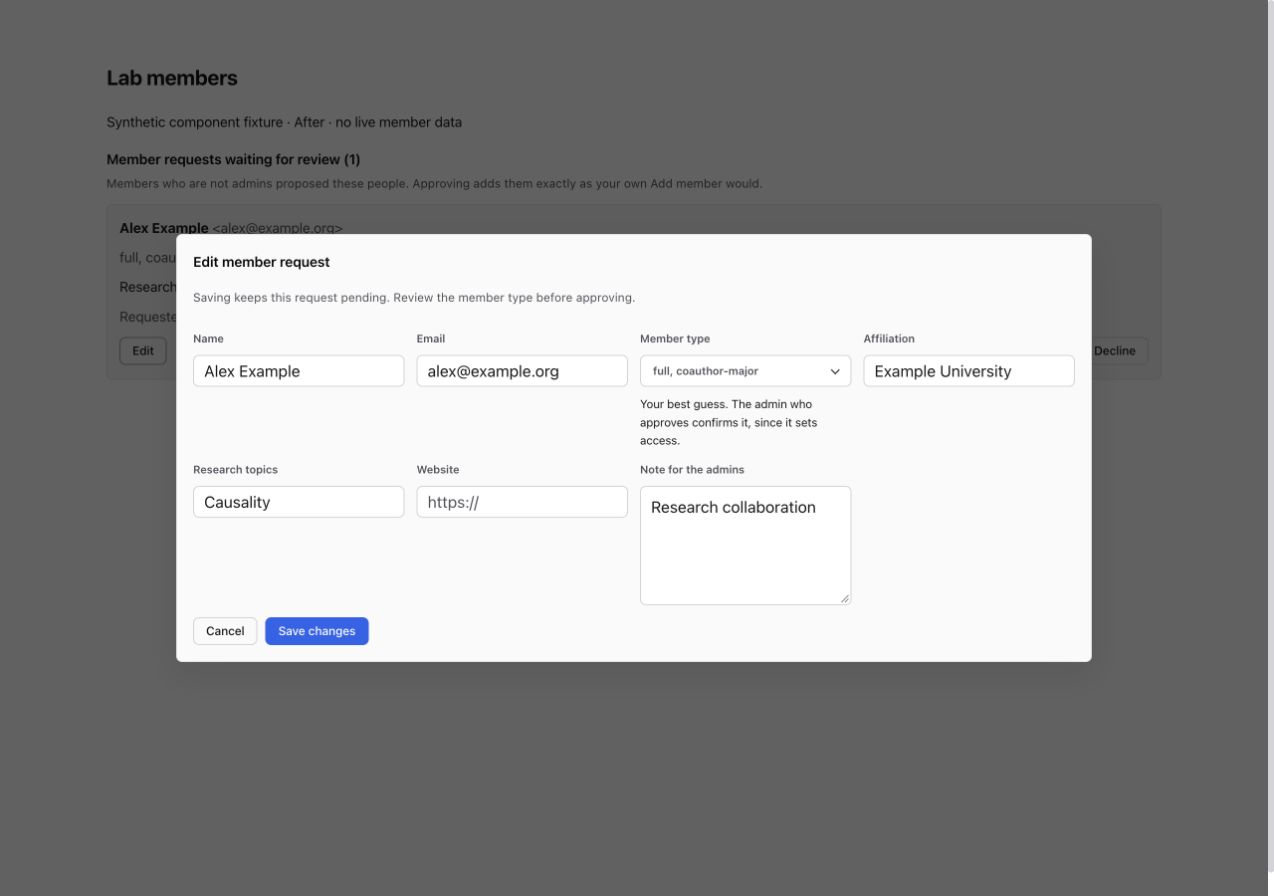
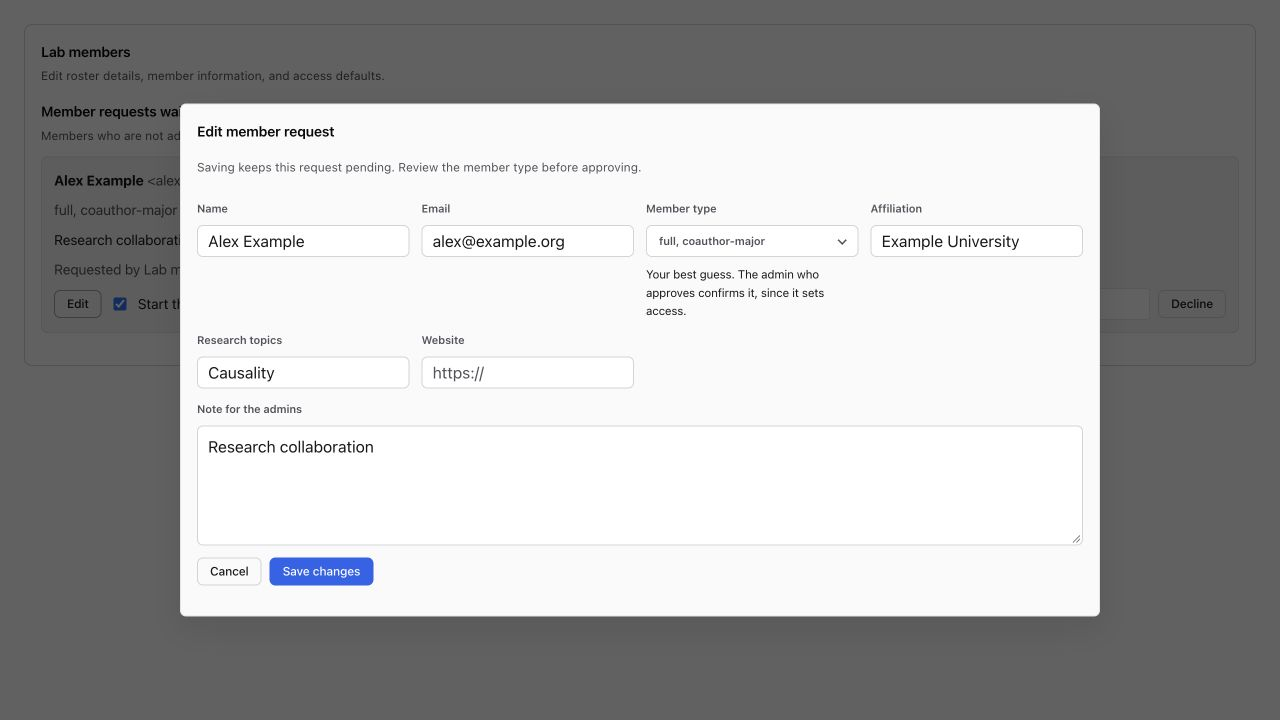
Align member request notes across the editor grid

diff --git a/openclaw-adminbot/ui/src/styles/components.css b/openclaw-adminbot/ui/src/styles/components.css
@@ -1029,6 +1029,10 @@
   min-width: 0;
 }
 
+.adminbot-form__field--wide {
+  grid-column: 1 / -1;
+}
+
 .adminbot-form__field span {
   color: var(--muted);
   font-size: var(--control-ui-text-xs);

diff --git a/openclaw-adminbot/docs/assets/adminbot/member-request-edit/README.md b/openclaw-adminbot/docs/assets/adminbot/member-request-edit/README.md
@@ -2,6 +2,6 @@
 
 These are browser captures of the actual Lit member-request components with production CSS and synthetic data. The local component fixture mocks the save callback; service HTTP regression tests separately verify persistence, admin authorization, stale edits, duplicate emails, and approval using the edited profile. No live member data or production invitations were used.
 
-Before: base 991232ca, pending Alex Example with `full, coauthor-major` and no Edit control. After: the same fixture and framing after selecting only `coauthor-major` and saving; it remains in the review queue. The dark editor capture shows the selected correction. Mobile is 390×844; desktop light is 1280×900. `light-editor.jpg` is a native browser clip of the popover; `light-context.jpg` retains its context.
+Before: base 991232ca, pending Alex Example with `full, coauthor-major` and no Edit control. After: the same fixture and framing after selecting only `coauthor-major` and saving; it remains in the review queue. The updated editor captures show the original request before correction, with the notes field spanning the form. Mobile is 390×844; desktop light is 1280×900. `editor.jpg` and `light-editor.jpg` are native browser clips of the popover; `light-context.jpg` retains its context.
 
 Browser checks: open Edit, change type, Save (popover closes and card updates), reopen, Cancel (no save), and inspect mobile/dark and desktop/light readability. The preview has no production authentication or external connectors. Existing onboarding, calendars, and roster writes run only on a separate approval.
